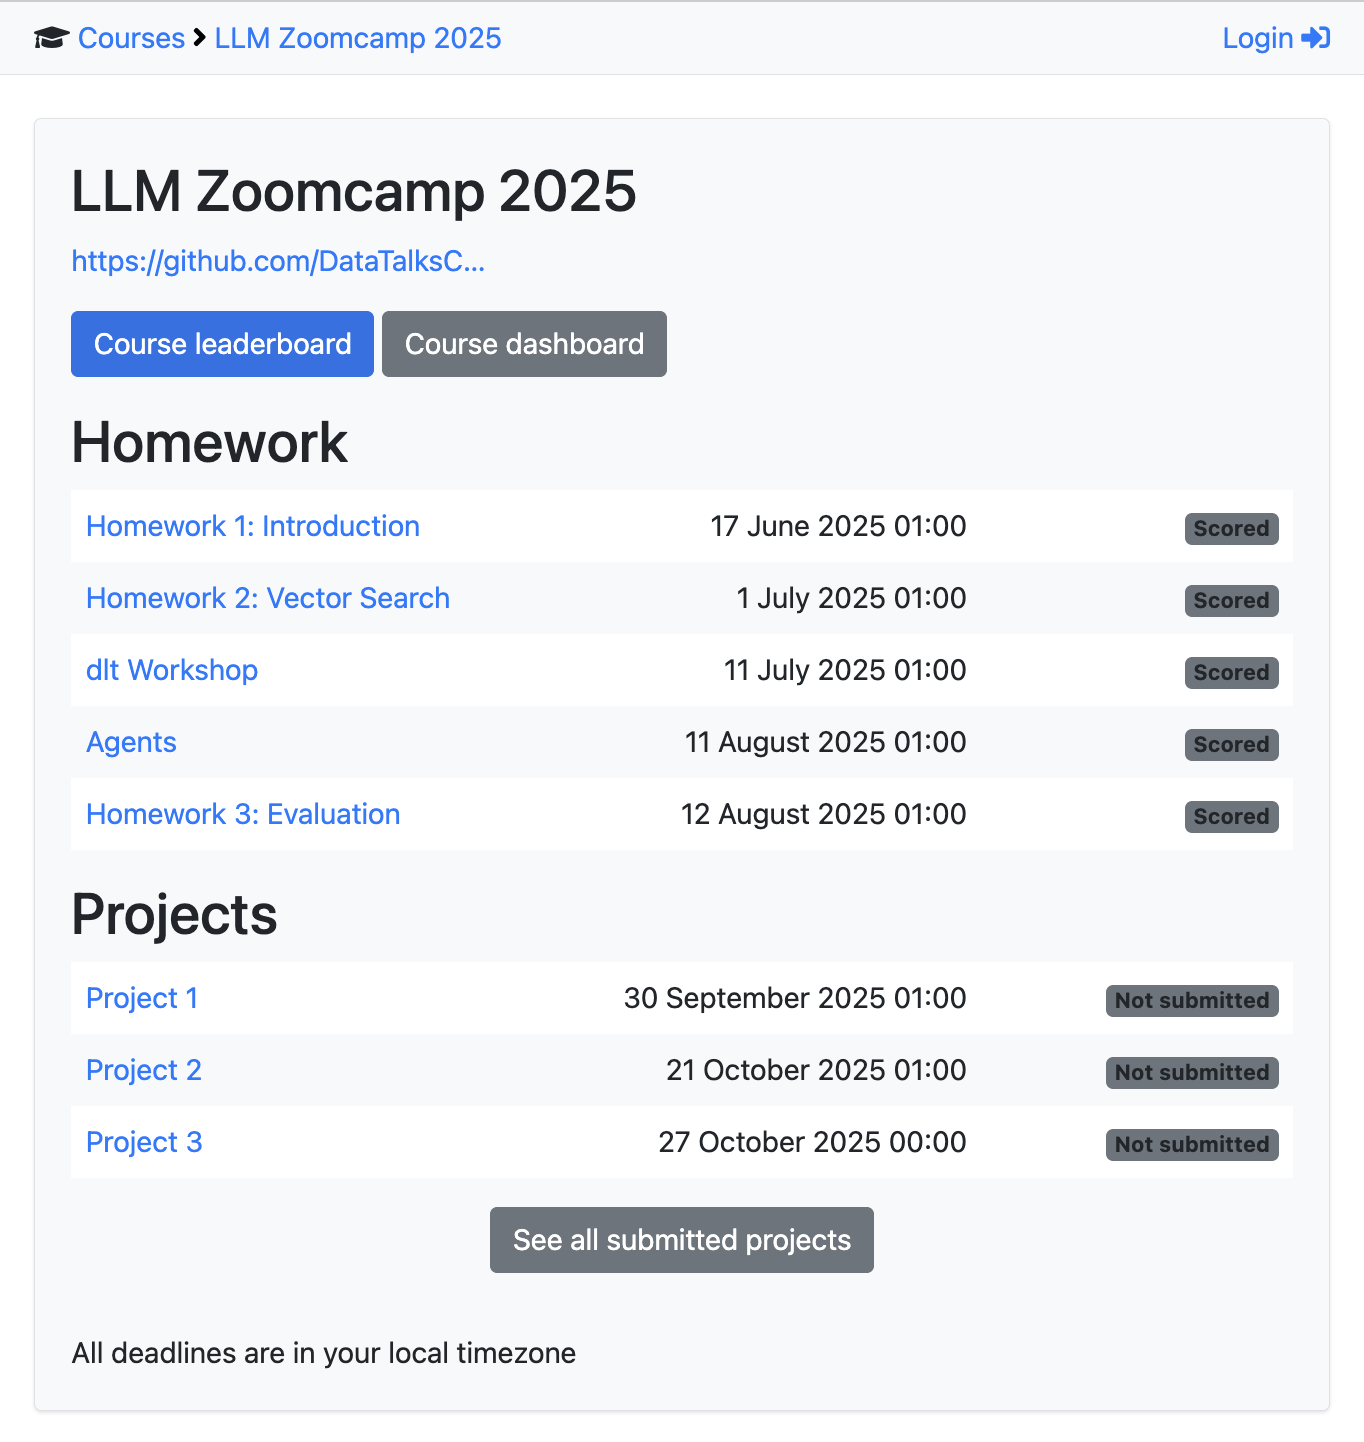
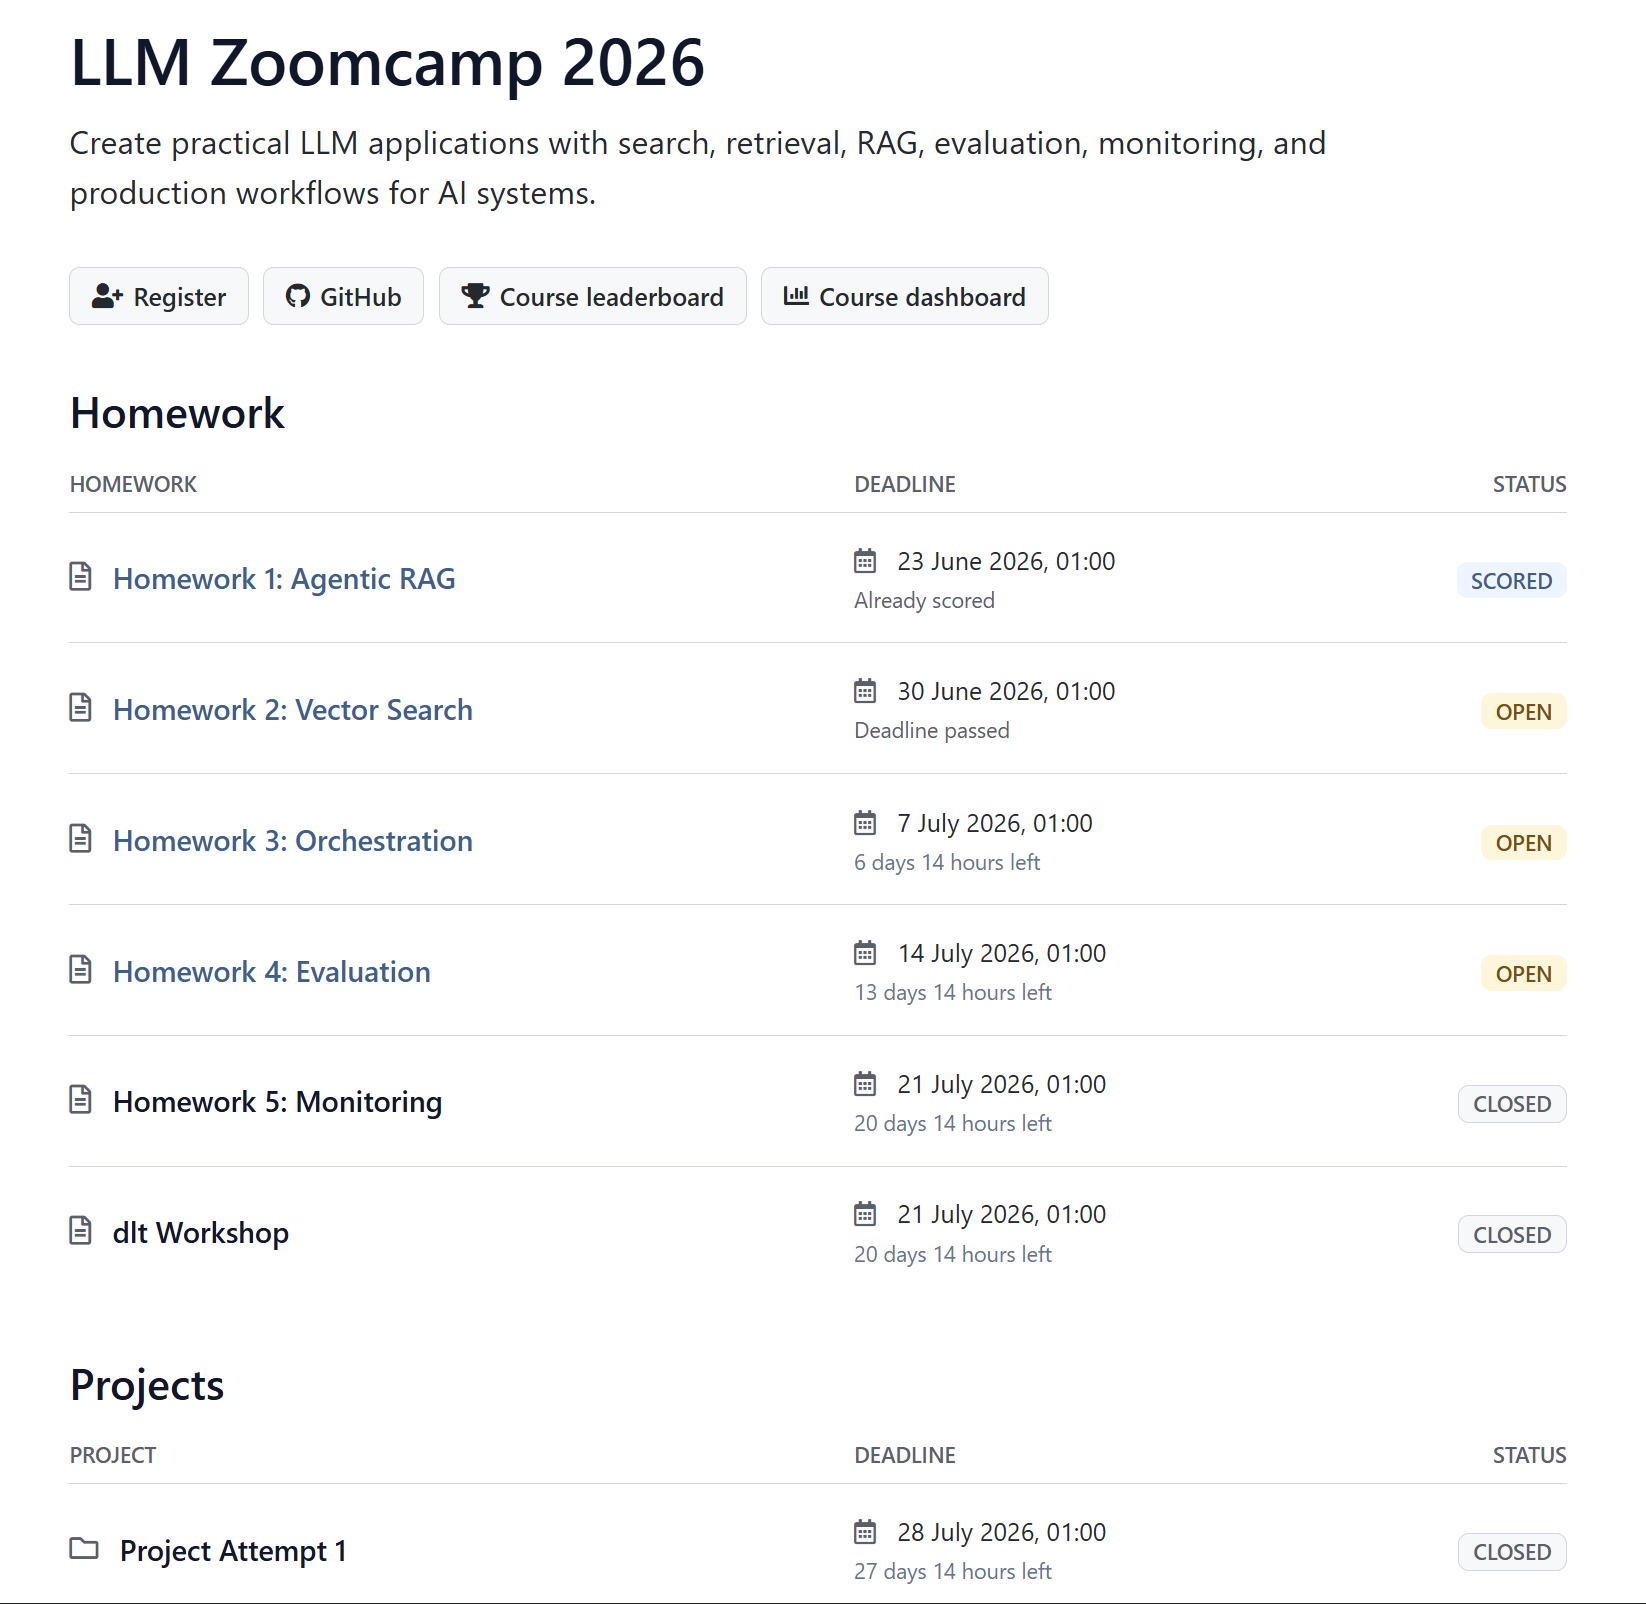
Update LLM Zoomcamp page for 2026 cohort
- Curriculum updated to actual 2026 structure (Agentic RAG, Orchestration/Kestra, Data Ingestion/dlt workshop, LangChain in Best Practices)
- Fix FAQ: cohort starts in June (not fall); cohorts/2026; example module folder
- Standardize YouTube playlist links to the 2026 repo playlist
- Add Kestra to tools/technologies FAQ
- Real testimonial dates in structured data
- Remove bold from 'good fit for' list
- Refresh homework, leaderboard, and YouTube playlist screenshots

diff --git a/_includes/course-structured-data/llm-zoomcamp-structured-data.html b/_includes/course-structured-data/llm-zoomcamp-structured-data.html
@@ -29,8 +29,10 @@
     "Vector Search",
     "Embeddings",
     "RAG",
-    "OpenAI Responses API",
-    "ToyAIKit",
+    "Function Calling",
+    "Kestra",
+    "dlt",
+    "LangChain",
     "LLM-as-a-Judge",
     "Evaluation Frameworks",
     "Grafana",
@@ -42,18 +44,23 @@
   ],
   "syllabusSections": [
     {
-      "name": "Introduction to LLMs and RAG",
-      "description": "Build your first RAG pipeline with LLM fundamentals and text search using OpenAI API, minsearch, and sqlitesearch.",
+      "name": "Agentic RAG",
+      "description": "Build a RAG pipeline with keyword search, then make it agentic with function calling using OpenAI API and minsearch.",
       "timeRequired": "P1W"
     },
     {
       "name": "Vector Search",
-      "description": "Generate embeddings, index documents, and retrieve with semantic search using sentence-transformers and PGVector.",
+      "description": "Generate embeddings, index documents, and retrieve with semantic search using minsearch, sqlitesearch, and PGVector.",
       "timeRequired": "P1W"
     },
     {
-      "name": "Agents",
-      "description": "Add autonomous tool use and function calling to RAG pipelines using OpenAI Responses API and ToyAIKit.",
+      "name": "Orchestration",
+      "description": "Orchestrate your AI and data pipelines with Kestra.",
+      "timeRequired": "P1W"
+    },
+    {
+      "name": "Workshop: Data Ingestion",
+      "description": "Pull traces from a monitoring service for analytics with dlt.",
       "timeRequired": "P1W"
     },
     {
@@ -63,12 +70,12 @@
     },
     {
       "name": "Monitoring",
-      "description": "Track user feedback, chat logs, and system performance in production using Grafana and monitoring dashboards.",
+      "description": "Track user feedback, chat logs, and system health with live dashboards using Grafana.",
       "timeRequired": "P1W"
     },
     {
       "name": "Best Practices",
-      "description": "Optimize retrieval with hybrid search and reranking.",
+      "description": "Optimize retrieval with hybrid search and reranking using LangChain.",
       "timeRequired": "P1W"
     },
     {
@@ -84,7 +91,7 @@
         "@type": "Person",
         "name": "Alexander Daniel Rios"
       },
-      "datePublished": "2024-01-01",
+      "datePublished": "2025-11-03",
       "reviewBody": "This course gave me hands-on experience in building LLM-powered applications, including prompt engineering, retrieval-augmented generation (RAG), pipeline orchestration, and vector search optimization.",
       "reviewRating": {
         "@type": "Rating",
@@ -99,7 +106,7 @@
         "@type": "Person",
         "name": "Vasiliy Chernykh"
       },
-      "datePublished": "2024-01-01",
+      "datePublished": "2025-11-13",
       "reviewBody": "What I loved about this course: hands-on experience building real AI systems (not just theory!), deep dives into RAG, vector databases, evaluation, and monitoring, the wealth of knowledge beyond the workshops – production-ready practices that matter in enterprise environments.",
       "reviewRating": {
         "@type": "Rating",

diff --git a/_posts/2024-11-11-llm-zoomcamp.md b/_posts/2024-11-11-llm-zoomcamp.md
@@ -66,12 +66,12 @@ LLM Zoomcamp is designed for anyone who wants to build practical, reliable LLM-p
 
 It's a good fit for:
 
-* **Software engineers** who want to add LLMs, RAG, and modern search capabilities to real products.
-* **Data engineers** interested in how vector search, hybrid search, and retrieval pipelines fit into production systems.
-* **ML practitioners** who want a structured way to evaluate and monitor LLM-based applications.
-* **Developers new to LLMs** who already know Python and want a clear, practical introduction to building end-to-end AI applications.
-* **Technical product managers or tech leads** who need a working understanding of how LLM systems behave in real usage.
-* **Anyone maintaining an existing LLM feature** and struggling with drift, inconsistent answers, or unreliable retrieval.
+* Software engineers who want to add LLMs, RAG, and modern search capabilities to real products.
+* Data engineers interested in how vector search, hybrid search, and retrieval pipelines fit into production systems.
+* ML practitioners who want a structured way to evaluate and monitor LLM-based applications.
+* Developers new to LLMs who already know Python and want a clear, practical introduction to building end-to-end AI applications.
+* Technical product managers or tech leads who need a working understanding of how LLM systems behave in real usage.
+* Anyone maintaining an existing LLM feature and struggling with drift, inconsistent answers, or unreliable retrieval.
 
 You don't need prior experience with AI or ML. The course focuses on the engineering side of modern LLM applications and guides you through the concepts step by step.
 
@@ -91,41 +91,47 @@ The course follows a practical, production-focused approach to building LLM appl
 <tbody>
 <tr>
 <td style="padding: 12px; border: 1px solid #dee2e6; font-weight: 600;">1</td>
-<td style="padding: 12px; border: 1px solid #dee2e6;">Introduction to LLMs and RAG</td>
-<td style="padding: 12px; border: 1px solid #dee2e6;">Build your first RAG pipeline with LLM fundamentals and text search</td>
-<td style="padding: 12px; border: 1px solid #dee2e6;">OpenAI API, minsearch, sqlitesearch</td>
+<td style="padding: 12px; border: 1px solid #dee2e6;">Agentic RAG</td>
+<td style="padding: 12px; border: 1px solid #dee2e6;">Build a RAG pipeline with keyword search, then make it agentic with function calling</td>
+<td style="padding: 12px; border: 1px solid #dee2e6;">OpenAI API, minsearch, function calling</td>
 </tr>
 <tr style="background-color: #f8f9fa;">
 <td style="padding: 12px; border: 1px solid #dee2e6; font-weight: 600;">2</td>
 <td style="padding: 12px; border: 1px solid #dee2e6;">Vector Search</td>
 <td style="padding: 12px; border: 1px solid #dee2e6;">Generate embeddings, index documents, and retrieve with semantic search</td>
-<td style="padding: 12px; border: 1px solid #dee2e6;">sentence-transformers, PGVector</td>
+<td style="padding: 12px; border: 1px solid #dee2e6;">minsearch, sqlitesearch, PGVector</td>
 </tr>
 <tr>
 <td style="padding: 12px; border: 1px solid #dee2e6; font-weight: 600;">3</td>
-<td style="padding: 12px; border: 1px solid #dee2e6;">Agents</td>
-<td style="padding: 12px; border: 1px solid #dee2e6;">Add autonomous tool use and function calling to RAG pipelines</td>
-<td style="padding: 12px; border: 1px solid #dee2e6;">OpenAI Responses API, ToyAIKit</td>
+<td style="padding: 12px; border: 1px solid #dee2e6;">Orchestration</td>
+<td style="padding: 12px; border: 1px solid #dee2e6;">Orchestrate your AI and data pipelines</td>
+<td style="padding: 12px; border: 1px solid #dee2e6;">Kestra</td>
 </tr>
 <tr style="background-color: #f8f9fa;">
+<td style="padding: 12px; border: 1px solid #dee2e6; font-weight: 600;">Workshop</td>
+<td style="padding: 12px; border: 1px solid #dee2e6;">Data Ingestion</td>
+<td style="padding: 12px; border: 1px solid #dee2e6;">Pull traces from a monitoring service for analytics</td>
+<td style="padding: 12px; border: 1px solid #dee2e6;">dlt</td>
+</tr>
+<tr>
 <td style="padding: 12px; border: 1px solid #dee2e6; font-weight: 600;">4</td>
 <td style="padding: 12px; border: 1px solid #dee2e6;">Evaluation</td>
 <td style="padding: 12px; border: 1px solid #dee2e6;">Measure retrieval quality and answer accuracy with offline and online evaluation</td>
 <td style="padding: 12px; border: 1px solid #dee2e6;">LLM-as-a-Judge, evaluation frameworks</td>
 </tr>
-<tr>
+<tr style="background-color: #f8f9fa;">
 <td style="padding: 12px; border: 1px solid #dee2e6; font-weight: 600;">5</td>
 <td style="padding: 12px; border: 1px solid #dee2e6;">Monitoring</td>
-<td style="padding: 12px; border: 1px solid #dee2e6;">Track user feedback, chat logs, and system performance in production</td>
+<td style="padding: 12px; border: 1px solid #dee2e6;">Track user feedback, chat logs, and system health with live dashboards</td>
 <td style="padding: 12px; border: 1px solid #dee2e6;">Grafana, monitoring dashboards</td>
 </tr>
-<tr style="background-color: #f8f9fa;">
+<tr>
 <td style="padding: 12px; border: 1px solid #dee2e6; font-weight: 600;">6</td>
 <td style="padding: 12px; border: 1px solid #dee2e6;">Best Practices</td>
 <td style="padding: 12px; border: 1px solid #dee2e6;">Optimize retrieval with hybrid search and reranking</td>
-<td style="padding: 12px; border: 1px solid #dee2e6;">Hybrid search and reranking tools</td>
+<td style="padding: 12px; border: 1px solid #dee2e6;">LangChain, hybrid search, reranking</td>
 </tr>
-<tr>
+<tr style="background-color: #f8f9fa;">
 <td style="padding: 12px; border: 1px solid #dee2e6; font-weight: 600;">7</td>
 <td style="padding: 12px; border: 1px solid #dee2e6;">End-to-End Project</td>
 <td style="padding: 12px; border: 1px solid #dee2e6;">Build a complete RAG application combining all components</td>
@@ -164,11 +170,11 @@ All lessons, homework, and cohort updates live in the [LLM Zoomcamp GitHub repos
 </figure>
 
 ### Video Lectures
-Lectures are pre-recorded and available in this [YouTube playlist](https://www.youtube.com/playlist?list=PL3MmuxUbc_hIB4fSqLy_0AfTjVLpgjV3R), so you can follow the live cadence or binge-watch at your own pace.
+Lectures are pre-recorded and available in this [YouTube playlist](https://www.youtube.com/playlist?list=PL3MmuxUbc_hLZFNgSad56pDBKK8KO0XIv), so you can follow the live cadence or binge-watch at your own pace.
 
 <figure>
 <img src="/images/posts/2024-11-11-llm-zoomcamp/llm-zoomcamp-youtube-playlist.png" alt="LLM Zoomcamp YouTube playlist - free video lectures on LLM Zoomcamp" title="LLM Zoomcamp YouTube Playlist" loading="lazy" style="max-width: 100%; height: auto; border: 1px solid #ddd; border-radius: 4px;" />
-<figcaption><p><a href="https://www.youtube.com/playlist?list=PL3MmuxUbc_hIB4fSqLy_0AfTjVLpgjV3R">LLM Zoomcamp YouTube playlist</a> with pre-recorded lectures</p></figcaption>
+<figcaption><p><a href="https://www.youtube.com/playlist?list=PL3MmuxUbc_hLZFNgSad56pDBKK8KO0XIv">LLM Zoomcamp YouTube playlist</a> with pre-recorded lectures</p></figcaption>
 </figure>
 
 ### Homework Assignments
@@ -226,7 +232,7 @@ DataTalks.Club has a supportive community of like-minded individuals in [our Sla
 
 You can join LLM Zoomcamp either by following a live cohort or learning at your own pace.
 
-All materials are freely available in the [LLM Zoomcamp GitHub repository](https://github.com/DataTalksClub/llm-zoomcamp). Each module has its own folder, and cohort-specific homework and deadlines are in the `cohorts` directory. Lectures are pre-recorded and available in this [YouTube playlist](https://www.youtube.com/playlist?list=PL3MmuxUbc_hIB4fSqLy_0AfTjVLpgjV3R).
+All materials are freely available in the [LLM Zoomcamp GitHub repository](https://github.com/DataTalksClub/llm-zoomcamp). Each module has its own folder, and cohort-specific homework and deadlines are in the `cohorts` directory. Lectures are pre-recorded and available in this [YouTube playlist](https://www.youtube.com/playlist?list=PL3MmuxUbc_hLZFNgSad56pDBKK8KO0XIv).
 
 ### Option 1: Self-Paced Learning
 